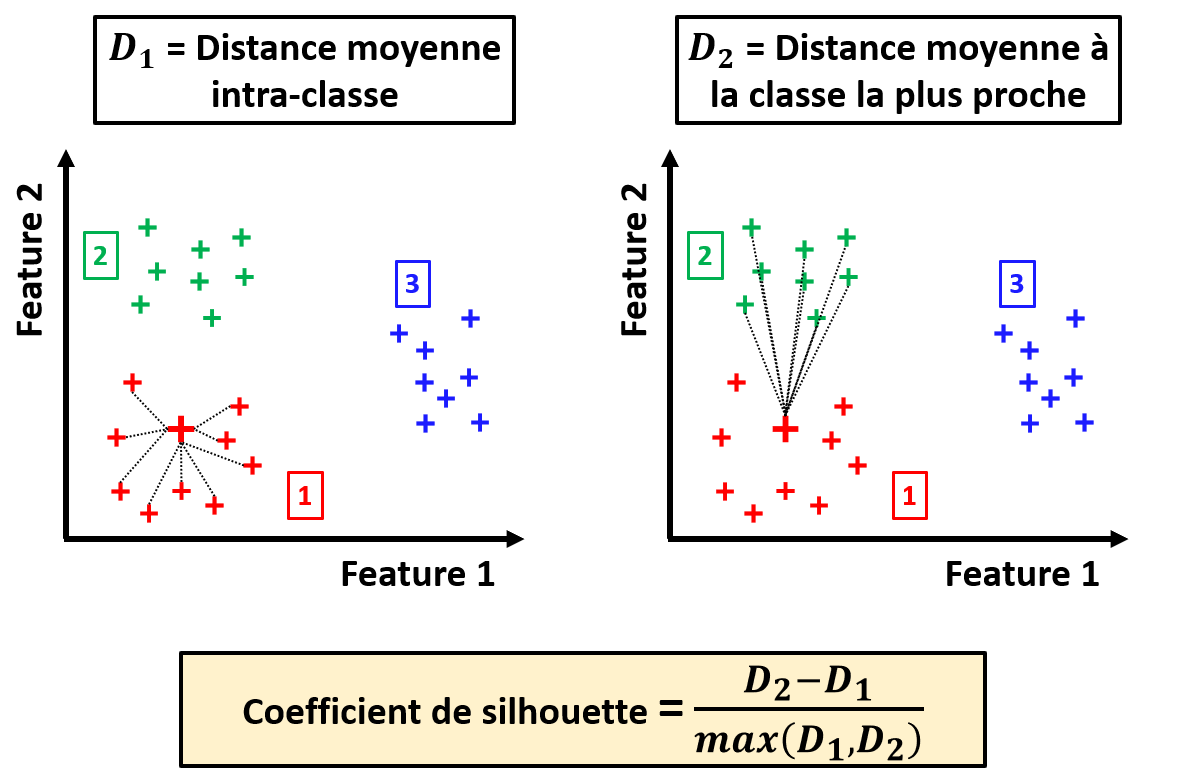
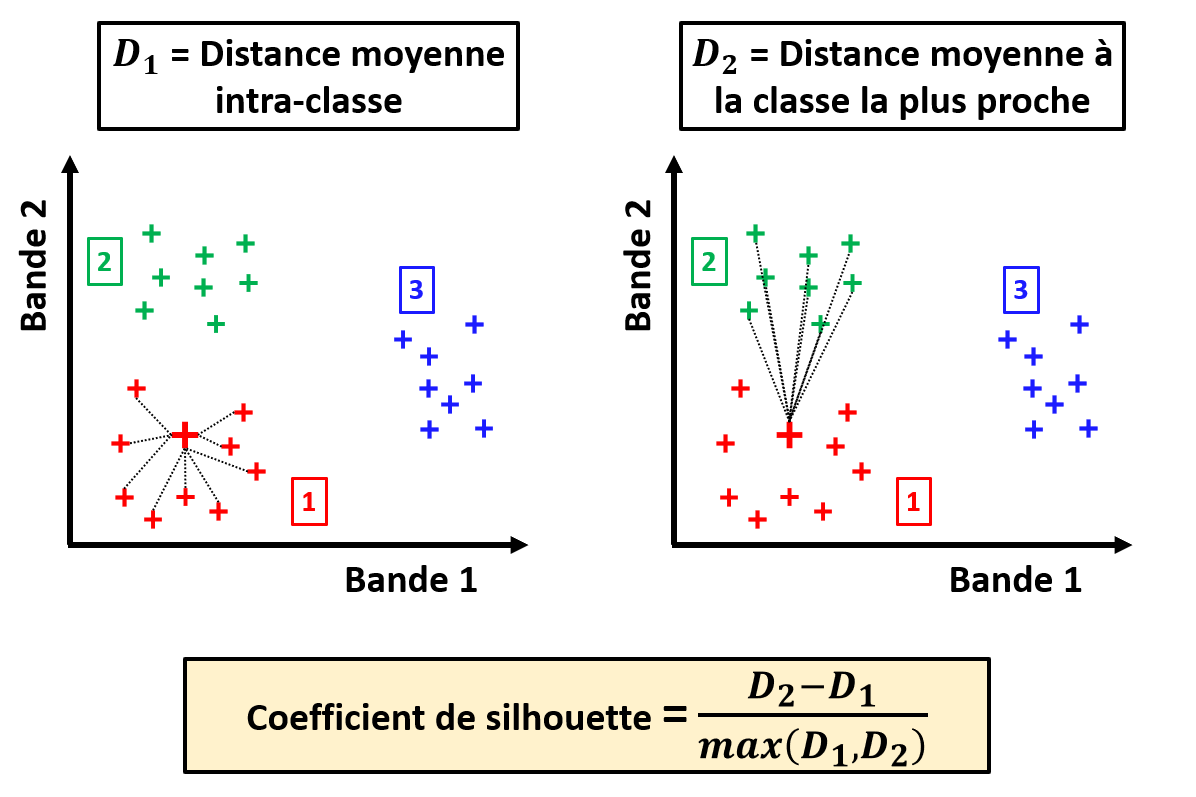
-Preparing the addition of the clustering function. -Fixing the silhouette coefficient illustration.

diff --git a/examples/example_script_clustering.py b/examples/example_script_clustering.py
@@ -1,0 +1,22 @@
+###############################################################################
+#HEADER
+
+#This script 
+
+###############################################################################
+
+#Libraries importation:--------------------------------------------------------
+
+import PyRaTe
+
+#Dataset preparation:----------------------------------------------------------
+
+#GeoTIFF image bands importation:
+#(An example set of 9 bands GeoTIFF files is available in the example/dataset
+#directory).
+
+band_list,band_bounds = PyRaTe.importation()
+
+#RBG image display:
+
+PyRaTe.img_display(band_list,band_bounds,display_rgb=[3,2,1])

diff --git a/src/PyRaTe/function_clustering.py b/src/PyRaTe/function_clustering.py
@@ -1,0 +1,21 @@
+###############################################################################
+#HEADER
+
+#This function 
+
+###############################################################################
+
+#Libraries importation:--------------------------------------------------------
+
+import numpy as np
+from sklearn.preprocessing import StandardScaler
+from sklearn.cluster import KMeans
+
+#Function definition:----------------------------------------------------------
+
+def clustering(band_list,nb_clusters):
+    
+    
+        
+        
+    

diff --git a/examples/example_script_classification.py b/examples/example_script_classification.py
@@ -1,7 +1,7 @@
 ###############################################################################
 #HEADER
 
-#This function 
+#This script 
 
 ###############################################################################
 

diff --git a/src/PyRaTe/__init__.py b/src/PyRaTe/__init__.py
@@ -1,3 +1,4 @@
+from .function_clustering import clustering
 from .function_dataset_statistics import dataset_statistics
 from .function_img_display import img_display
 from .function_importation import importation
